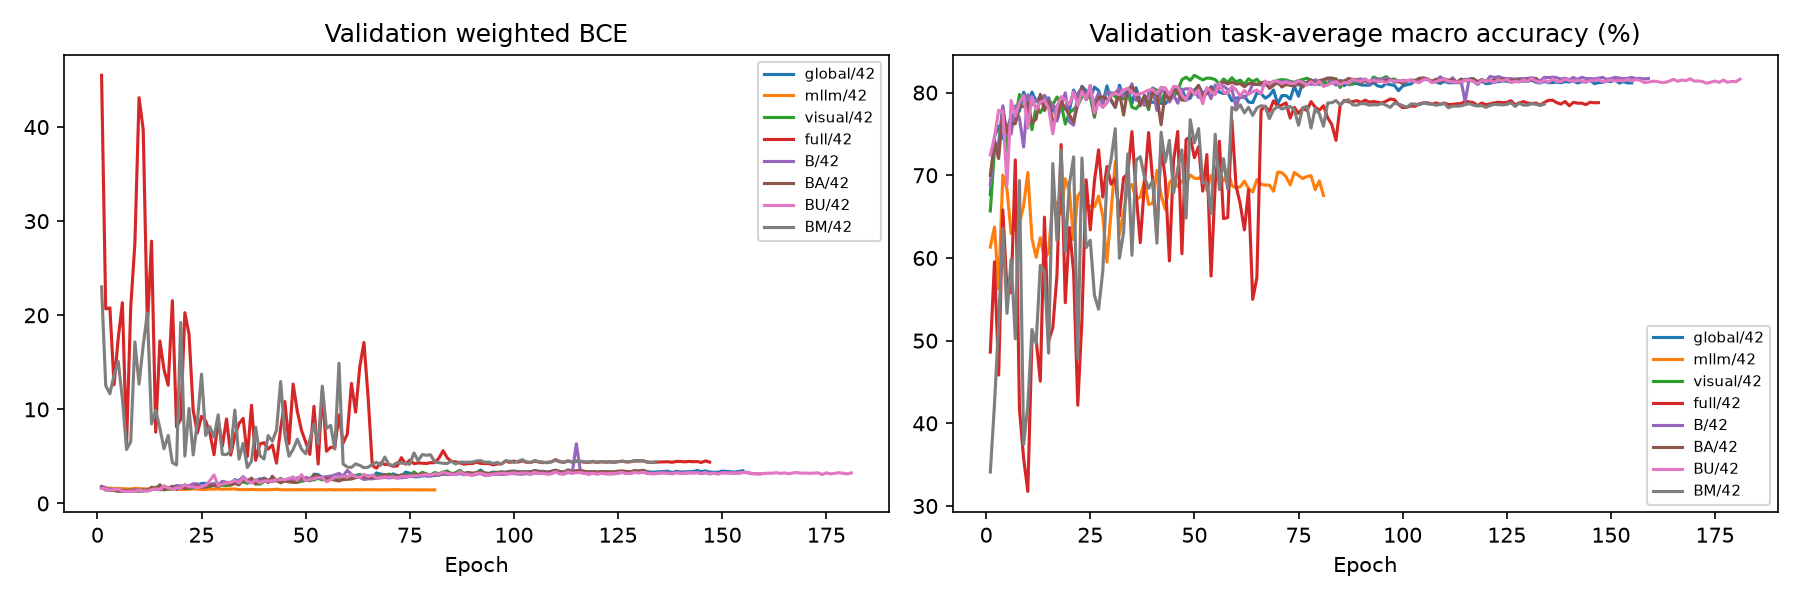
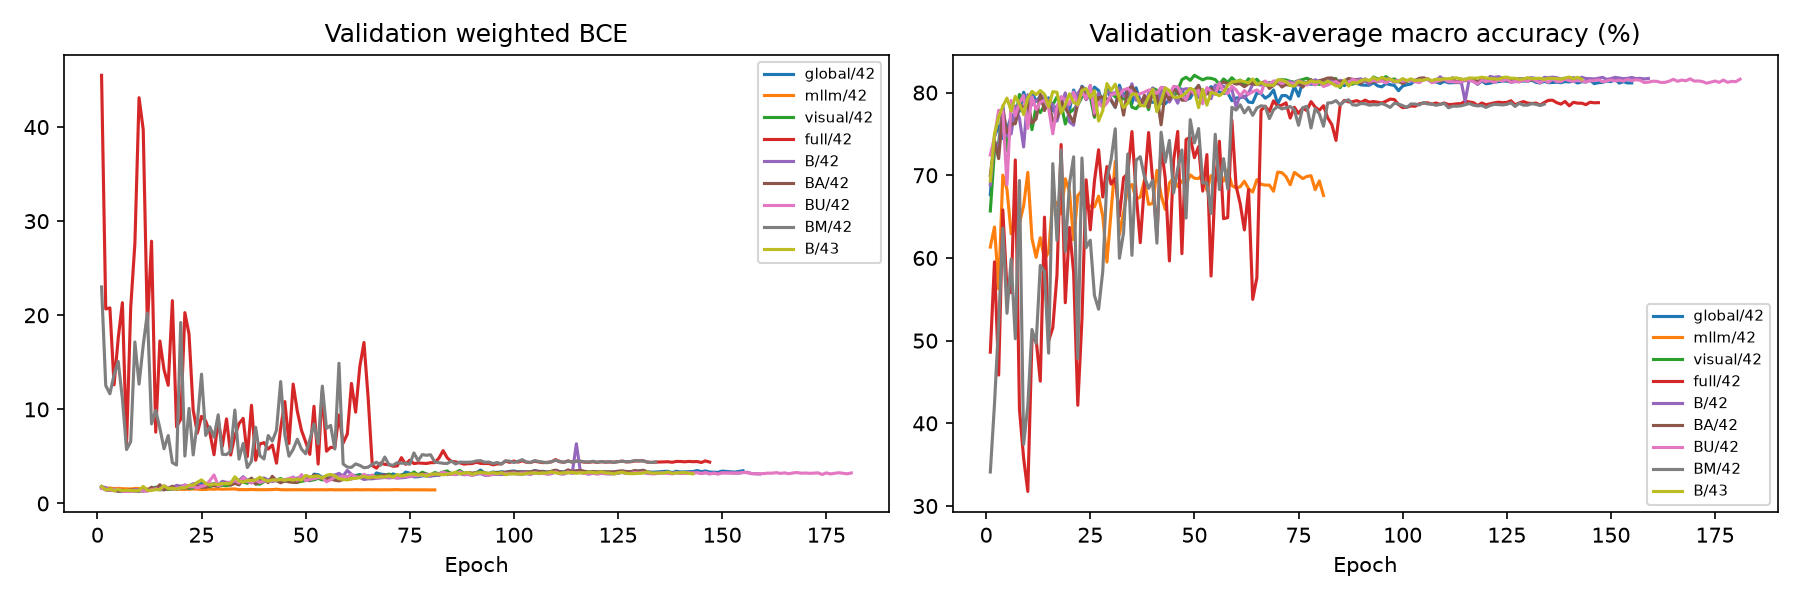
results: B seed 43 reproduction milestone

diff --git a/reports/reproduction/20261005_042629_774918_suite/reproduction_report.md b/reports/reproduction/20261005_042629_774918_suite/reproduction_report.md
@@ -17,6 +17,7 @@ code_compat 保留独立七图增强、无 ImageNet normalization、global-only 
 | BA | 42 | 81 | 85.01 / 70.78 | 78.86 / 81.47 |
 | BU | 42 | 130 | 84.99 / 69.11 | 78.59 / 80.64 |
 | BM | 42 | 83 | 83.18 / 68.10 | 77.30 / 80.65 |
+| B | 43 | 92 | 85.22 / 70.79 | 78.79 / 81.32 |
 
 六组消融和主模型多 seed 的运行状态见 `run_status.json`；未完成时不宣称整个复现完成。
 TVMoE 等外部实现/同 split 逐图预测、论文 Sankey 8×5 公式仍缺失，不能复现对应比较和图。
